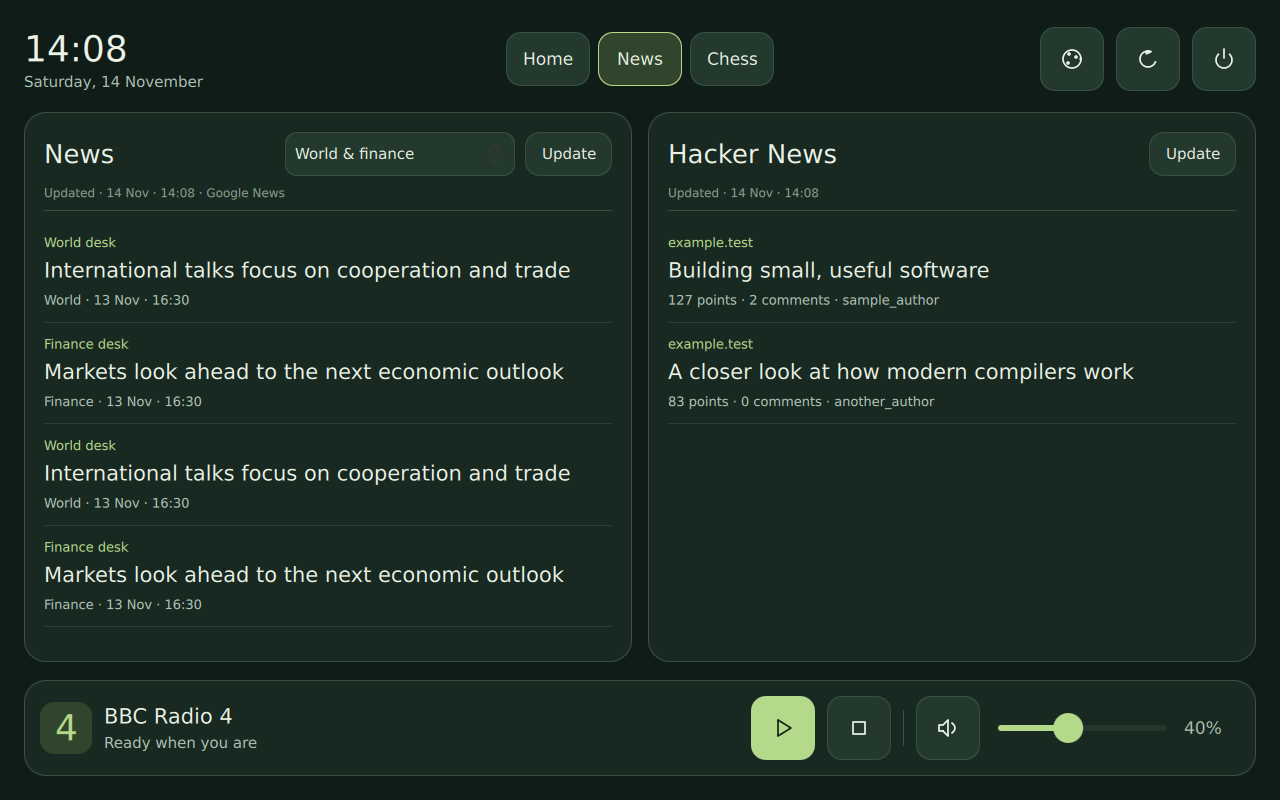
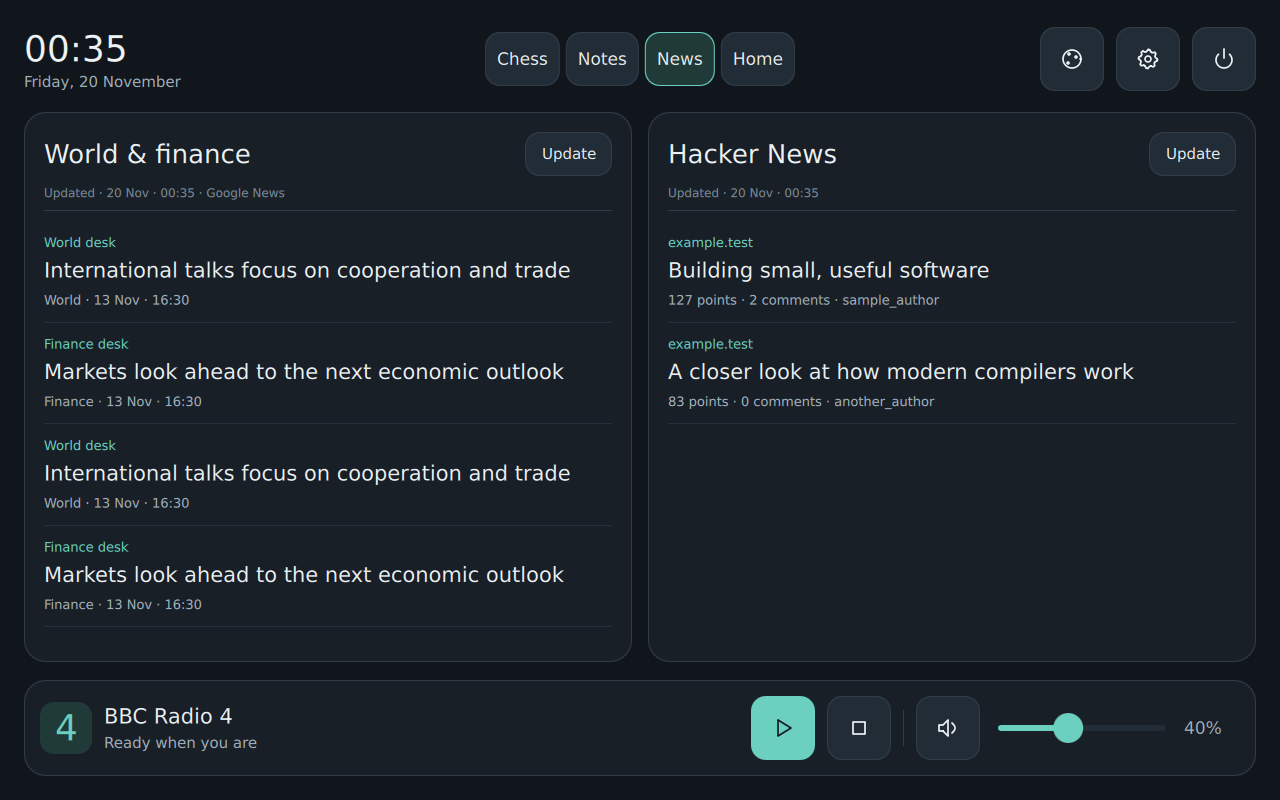
Show News in the dark Tide theme in the screenshot gallery

diff --git a/app/tests/home-ui-tests.cpp b/app/tests/home-ui-tests.cpp
@@ -1473,7 +1473,7 @@ exec sleep 20
         const auto selected=qEnvironmentVariable("THINKSMART_PUBLIC_SCREENSHOT_SET").split(',',Qt::SkipEmptyParts);
         auto capture=[&](const QString &name,int width=1280,int height=800){if(!selected.isEmpty()&&!selected.contains(name))return;window->resize(width,height);QTest::qWait(350);QVERIFY(window->grabWindow().save(destination+"/"+name+".png"));};
         capture("home-landscape");capture("home-portrait",800,1280);
-        window->resize(1280,800);media->openAppRequested("news");capture("news");
+        window->resize(1280,800);media->setTheme("tide");media->openAppRequested("news");capture("news");
         media->setTheme("dusk");media->openAppRequested("chess");capture("chess");
         media->setTheme("spring");media->openAppRequested("assistant");capture("assistant");
         const auto recipe=media->recipes()->request({{"action","recipes.show"},{"title","Harissa cauliflower & lemon couscous"},

diff --git a/README.md b/README.md
@@ -84,7 +84,7 @@ starting prompt and contribution workflow.
 
 ## Screenshots
 
-| Voice assistant | News and Hacker News |
+| Voice assistant | News and Hacker News · Tide theme |
 | --- | --- |
 | ![Voice assistant](docs/screenshots/assistant.png) | ![News feeds](docs/screenshots/news.png) |
 
